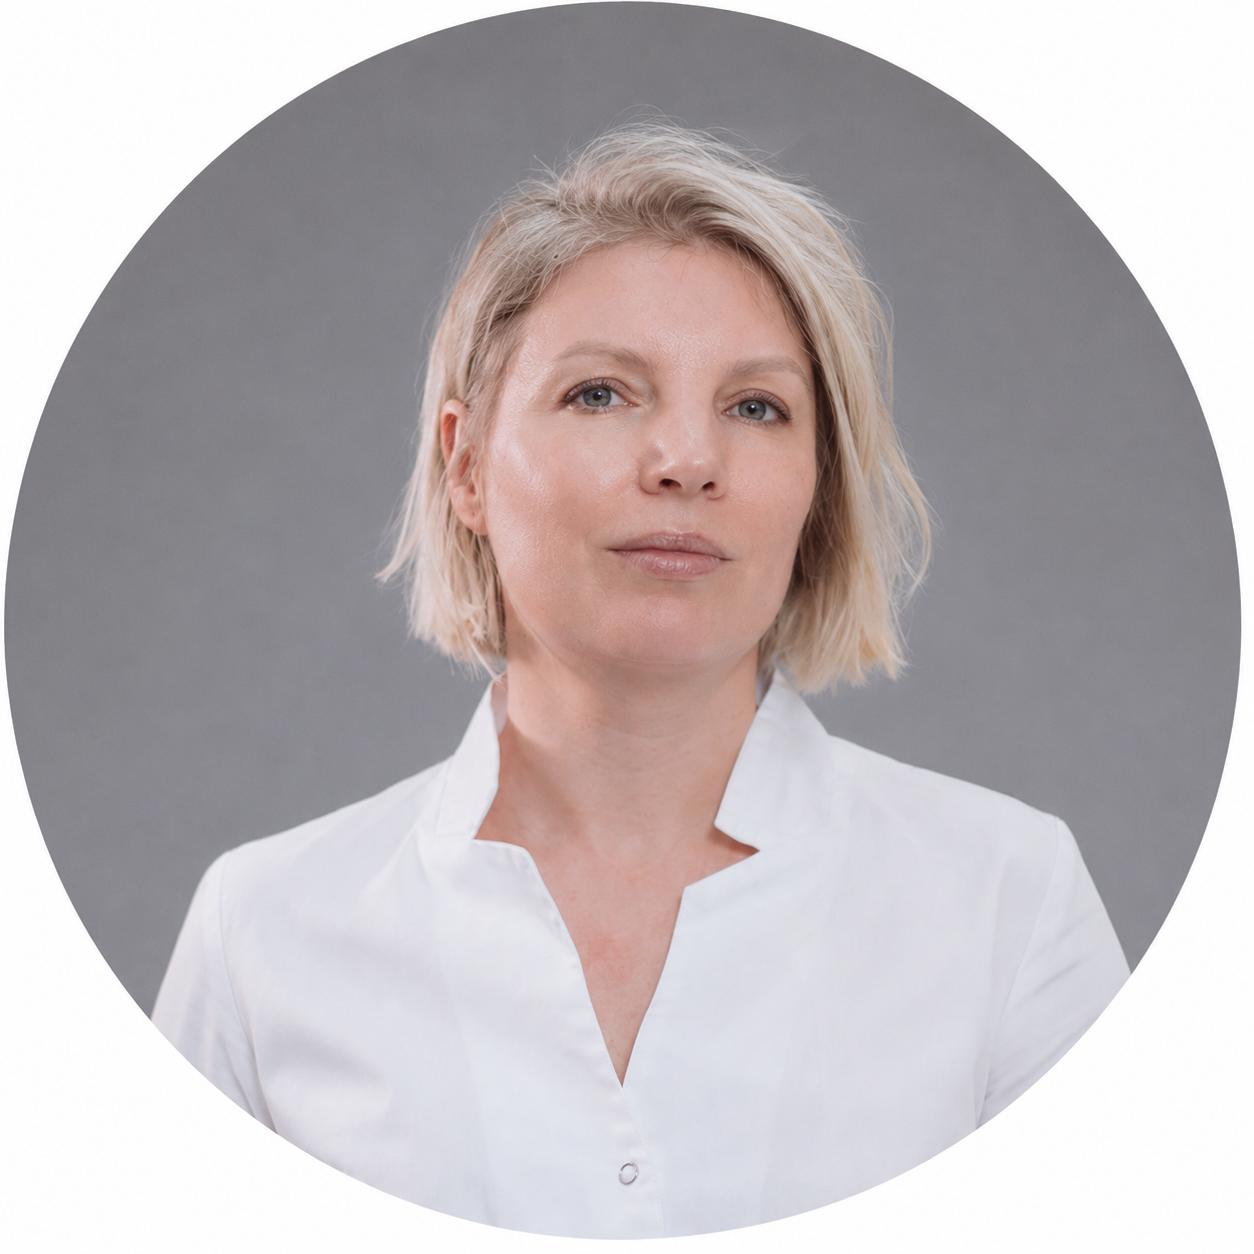
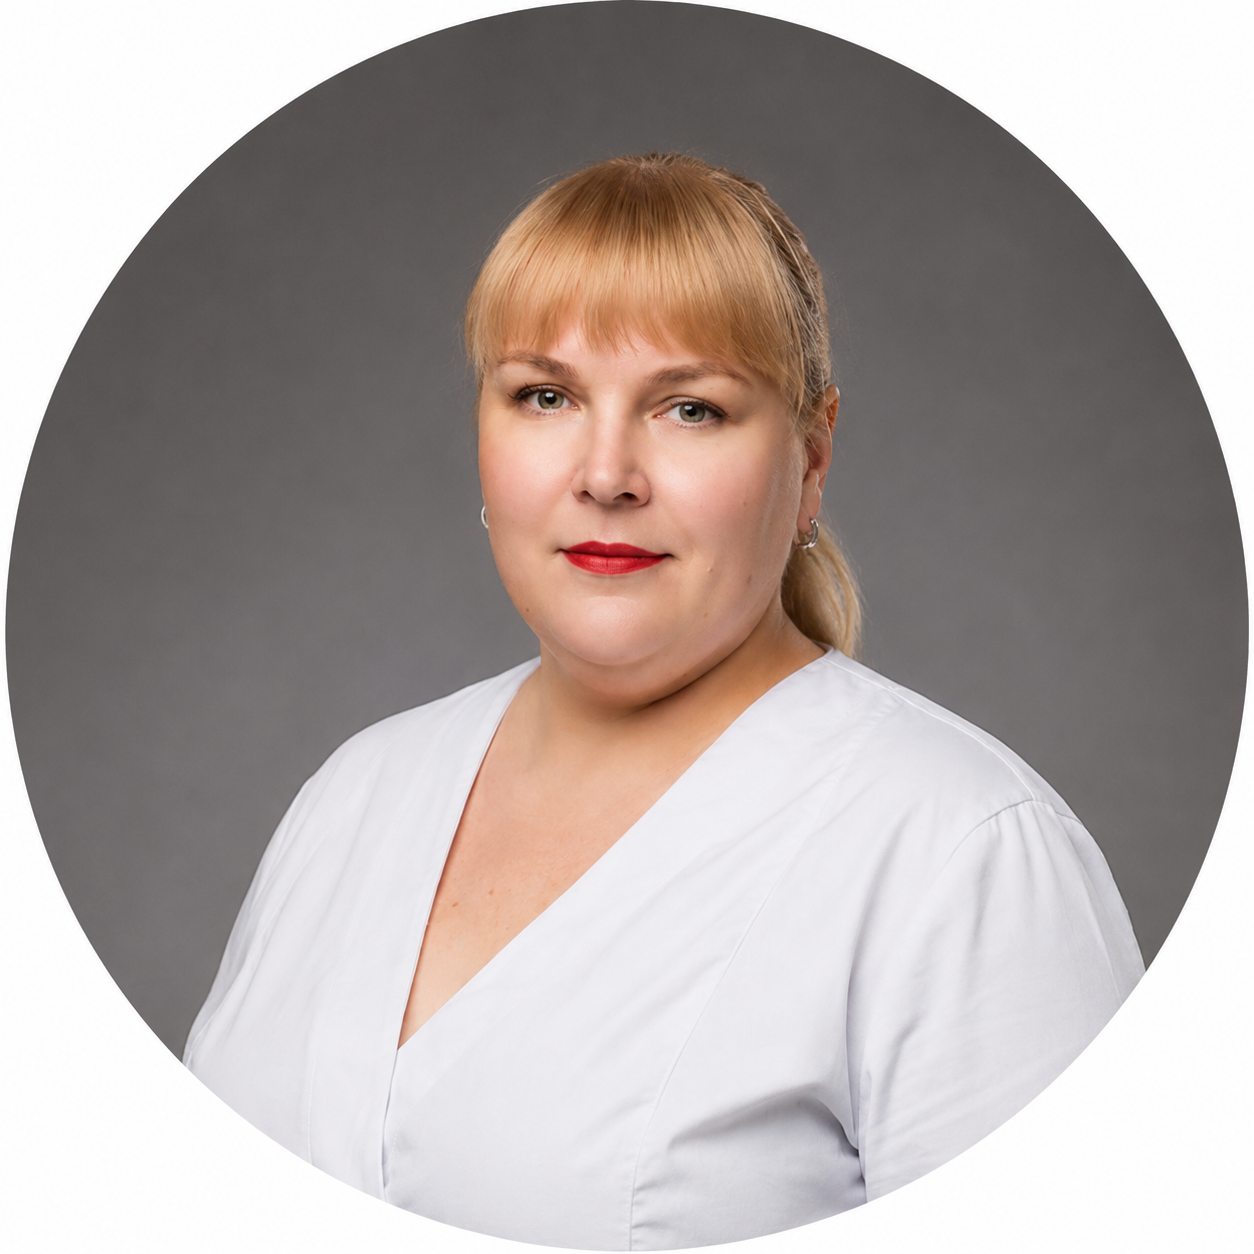
4 version

diff --git a/index.html b/index.html
@@ -15,19 +15,19 @@
 
   <header class="header">
     <div class="container header__inner">
-      <a class="header__brand" href="https://polardent36.ru/" target="_blank" rel="noopener noreferrer" aria-label="Дельта — центр стоматологии">
+      <a class="header__brand" href="https://dentalformula-22.ru/" target="_blank" rel="noopener noreferrer" aria-label="Дельта — центр стоматологии">
         <span class="header__brand-mark-wrap">
           <img class="header__brand-mark" src="assets/images/logo-delta.png" alt="Дельта — центр стоматологии" width="118" height="75">
         </span>
       </a>
       <div class="header__center">
         <img class="header__icon header__icon--clock" src="assets/images/icon-clock.png" alt="" width="30" height="30">
-        <span class="header__address">г. Воронеж, ул. Студенческая, 12а</span>
+        <span class="header__address">г. Барнаул, пр-кт Красноармейский, д. 75Б пом. Н11</span>
       </div>
       <div class="header__right">
         <span class="header__hours">Работаем ежедневно с 09:00 до 21:00</span>
-        <a href="tel:+74732030243" class="header__phone" aria-label="Позвонить: +7 (473) 203-02-43">
-          <span class="header__phone-text">+7 (473) 203-02-43</span>
+        <a href="tel:+73852270693" class="header__phone" aria-label="Позвонить: +7 (3852) 27-06-93">
+          <span class="header__phone-text">+7 (3852) 27-06-93</span>
           <img class="header__phone-btn" src="assets/images/header-phone.png" alt="" width="138" height="25">
         </a>
       </div>
@@ -112,7 +112,7 @@
                       <button type="submit" class="btn btn--quiz quiz__submit" data-quiz-submit hidden>Получить расчет и подарки</button>
                       <img class="quiz__submit-gift" src="assets/images/gift-box.png" alt="" width="156" height="156" data-quiz-submit-gift hidden>
                     </div>
-                    <p class="quiz__consent">Нажимая на кнопку, вы соглашаетесь на <a href="https://polardent36.ru/police" class="quiz__consent-link" target="_blank" rel="noopener noreferrer">обработку персональных данных</a></p>
+                    <p class="quiz__consent">Нажимая на кнопку, вы соглашаетесь на <a href="https://dentalformula-22.ru/police/" class="quiz__consent-link" target="_blank" rel="noopener noreferrer">обработку персональных данных</a></p>
                   </div>
                 </div>
 
@@ -126,7 +126,7 @@
                 <div class="quiz__success-cta">
                   <p class="quiz__success-label"><strong>РАССЧИТАЙТЕ СТОИМОСТЬ</strong> и получите подарок на выбор</p>
                   <p class="quiz__success-comfort">— Надёжная фиксация и повышенный комфорт: не выпадают, не натирают, не сдавливают.</p>
-                  <a href="tel:+74732030243" class="btn btn--primary quiz__success-btn">ПОЛУЧИТЬ РАСЧЁТ И ПОДАРКИ</a>
+                  <a href="tel:+73852270693" class="btn btn--primary quiz__success-btn">ПОЛУЧИТЬ РАСЧЁТ И ПОДАРКИ</a>
                 </div>
               </div>
             </div>
@@ -144,10 +144,10 @@
                 <blockquote class="quiz__quote">«Мы гарантируем высокое качество нашей работы и предлагаем лучшие цены в Барнауле на зубные протезы!»</blockquote>
                 <div class="quiz__doctor">
                   <div class="quiz__doctor-info">
-                    <img class="quiz__doctor-photo" src="assets/images/quiz-doctor.png" alt="Голубцова Евгения Сергеевна" width="100" height="100">
-                    <p class="quiz__doctor-name">Голубцова Евгения Сергеевна</p>
-                    <p class="quiz__doctor-role">Врач-Хирург-Имплантолог</p>
-                    <p class="quiz__doctor-exp">Стаж: 20 лет</p>
+                    <img class="quiz__doctor-photo" src="assets/images/quiz-doctor.png" alt="Линник Елена Викторовна" width="100" height="100">
+                    <p class="quiz__doctor-name">Линник Елена Викторовна</p>
+                    <p class="quiz__doctor-role">Главный врач, хирург-имплантолог</p>
+                    <p class="quiz__doctor-exp">Стаж: более 20 лет</p>
                   </div>
                 </div>
               </div>
@@ -159,19 +159,19 @@
       <footer class="site-footer">
         <div class="site-footer__inner">
           <div class="site-footer__col site-footer__col--left">
-            <p class="site-footer__license">Лицензия: <a class="site-footer__link" href="https://polardent36.ru/patient/licens" target="_blank" rel="noopener noreferrer">Л041-01136-36/00324912</a></p>
+            <p class="site-footer__license">Лицензия: <a class="site-footer__link" href="https://dentalformula-22.ru/patient/licens/" target="_blank" rel="noopener noreferrer">Л041-01151-22/01986581</a></p>
             <p class="site-footer__disclaimer">Сайт не является публичной офертой</p>
             <p class="site-footer__age">18+ Имеются противопоказания, необходимо проконсультироваться с врачом.</p>
           </div>
 
           <div class="site-footer__col site-footer__col--center">
             <img class="site-footer__logo" src="assets/images/logo-delta.png" alt="Дельта — центр стоматологии" width="150" height="95">
-            <p class="site-footer__legal">ООО «ПРЕМИУМ» | ИНН 3662292520 | ОГРН 12136000009611 | КПП 366601001</p>
+            <p class="site-footer__legal">ООО «ДЕЛЬТА ГРУПП» | ИНН 2465362960 | ОГРН 1242400017793 | КПП 246501001</p>
           </div>
 
           <div class="site-footer__col site-footer__col--right">
-            <p class="site-footer__contacts">с 09:00 до 21:00 без выходных<br>г. Воронеж, ул. Студенческая, 12а<br><a class="site-footer__link" href="tel:+74732030243">+7 (473) 203-02-43</a><br><a class="site-footer__link" href="mailto:[email redacted]">[email redacted]</a></p>
-            <a class="site-footer__policy" href="https://polardent36.ru/police" target="_blank" rel="noopener noreferrer">Политика конфиденциальности</a>
+            <p class="site-footer__contacts">с 09:00 до 21:00 без выходных<br>г. Барнаул, пр-кт Красноармейский, д. 75Б пом. Н11<br><a class="site-footer__link" href="tel:+73852270693">+7 (3852) 27-06-93</a><br><a class="site-footer__link" href="mailto:[email redacted]">[email redacted]</a></p>
+            <a class="site-footer__policy" href="https://dentalformula-22.ru/police/" target="_blank" rel="noopener noreferrer">Политика конфиденциальности</a>
           </div>
         </div>
       </footer>
@@ -179,7 +179,7 @@
   </main>
 
   <div class="cookie" id="cookie" aria-live="polite">
-    <p class="cookie__text">Мы используем cookie, <a href="https://polardent36.ru/police" target="_blank" rel="noopener noreferrer">подробнее</a></p>
+    <p class="cookie__text">Мы используем cookie, <a href="https://dentalformula-22.ru/police/" target="_blank" rel="noopener noreferrer">подробнее</a></p>
     <button type="button" class="btn btn--cookie" data-cookie-ok>ОК</button>
   </div>
 